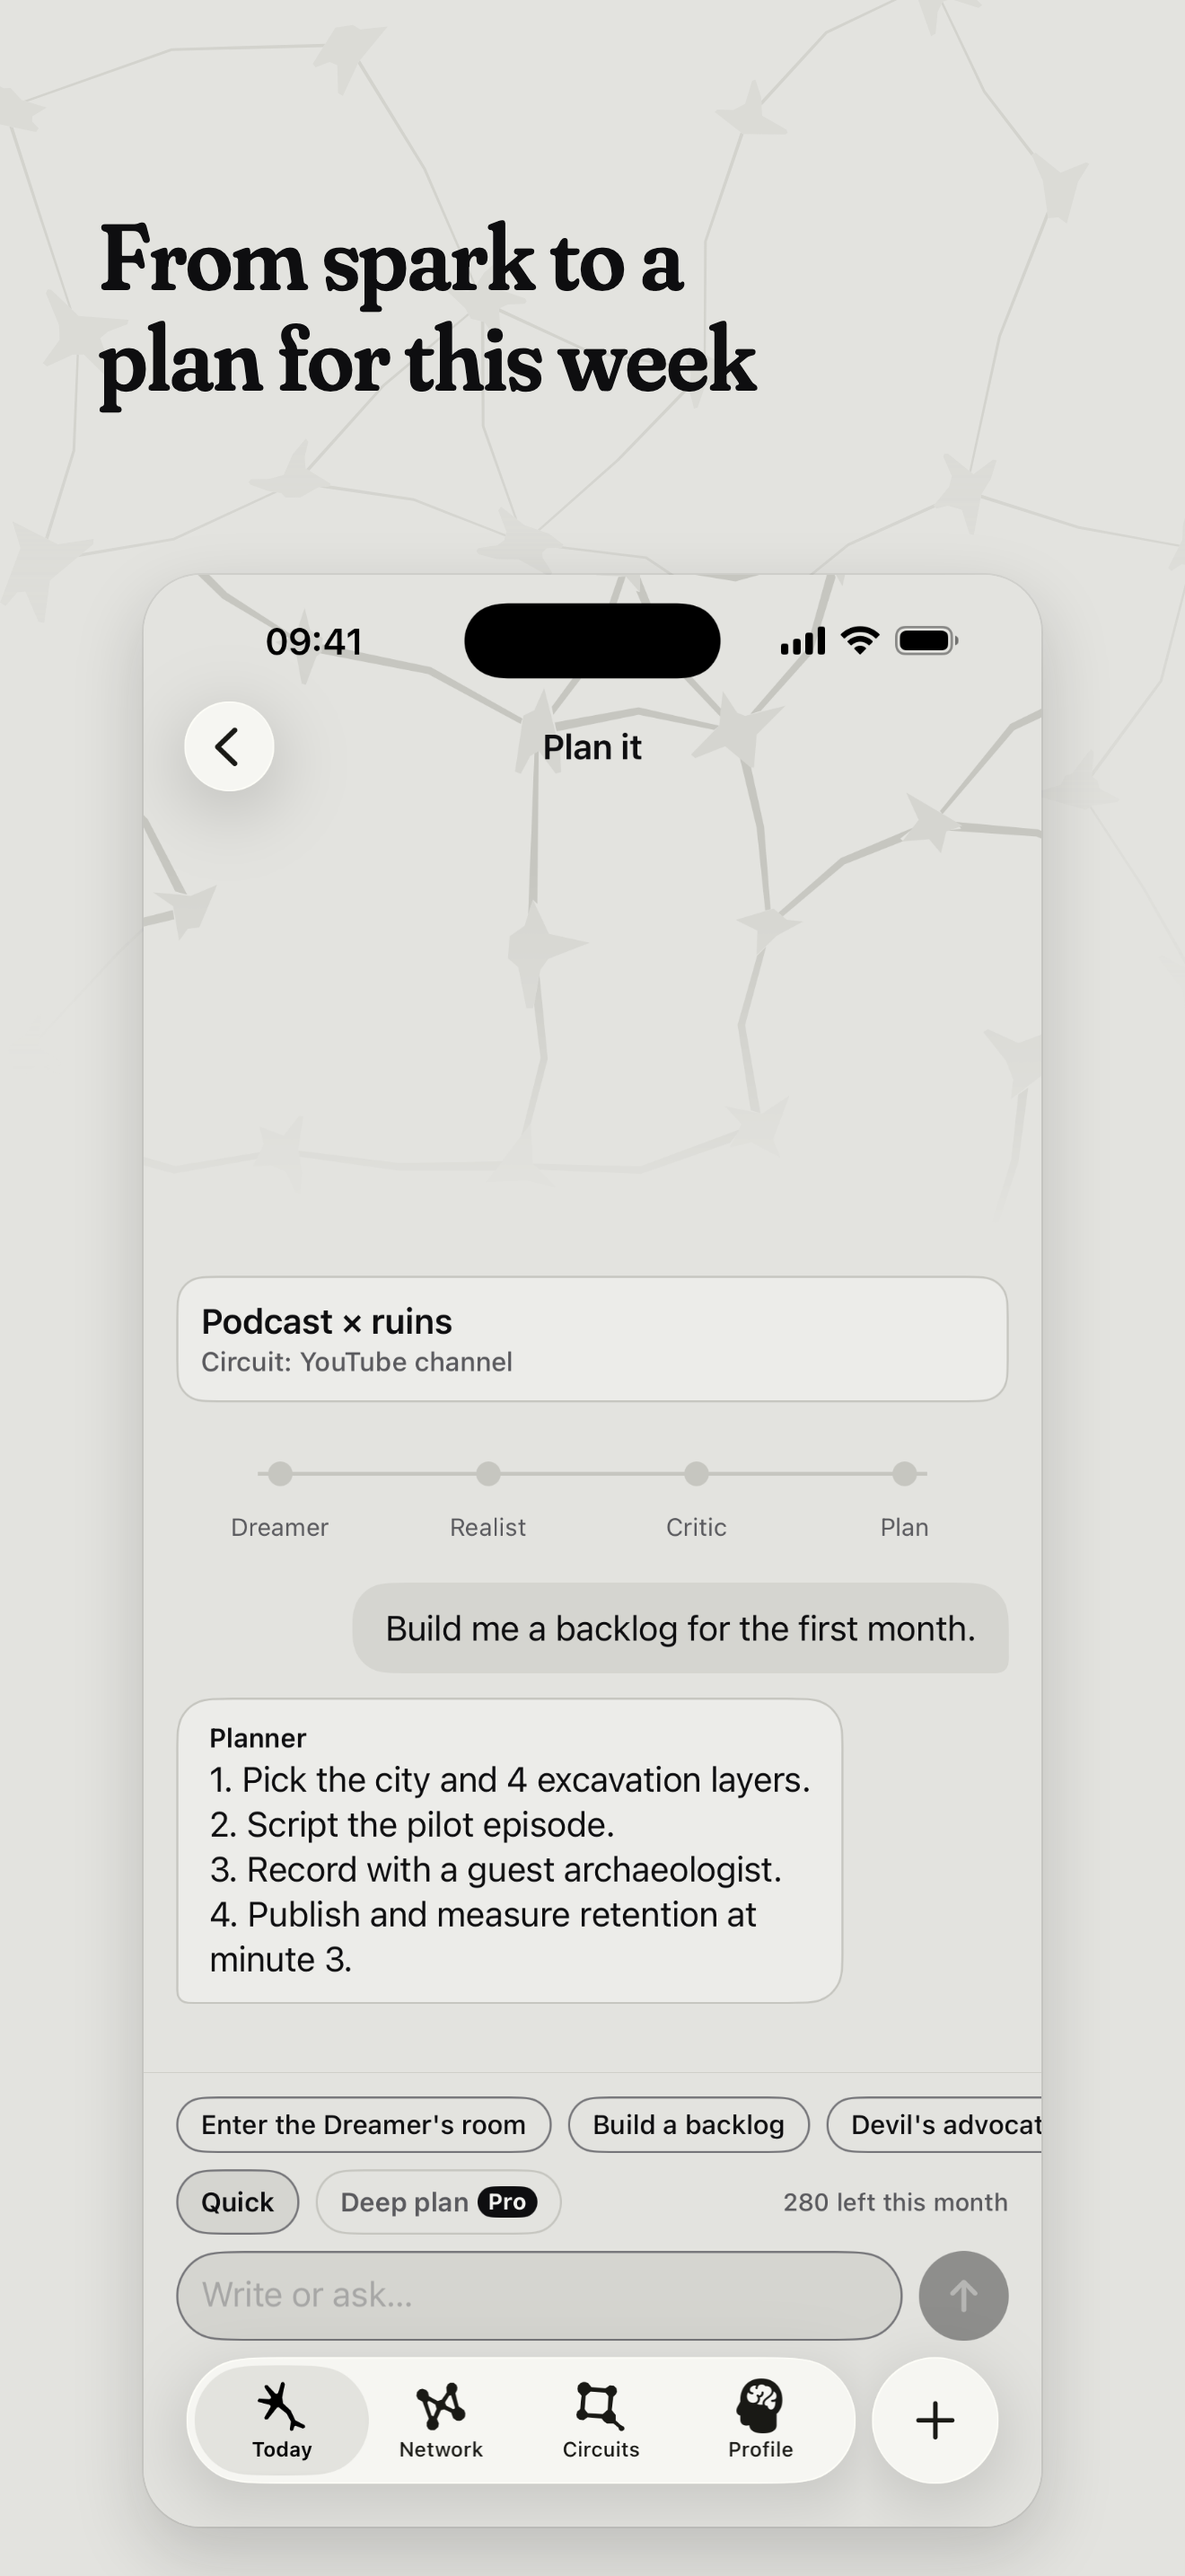
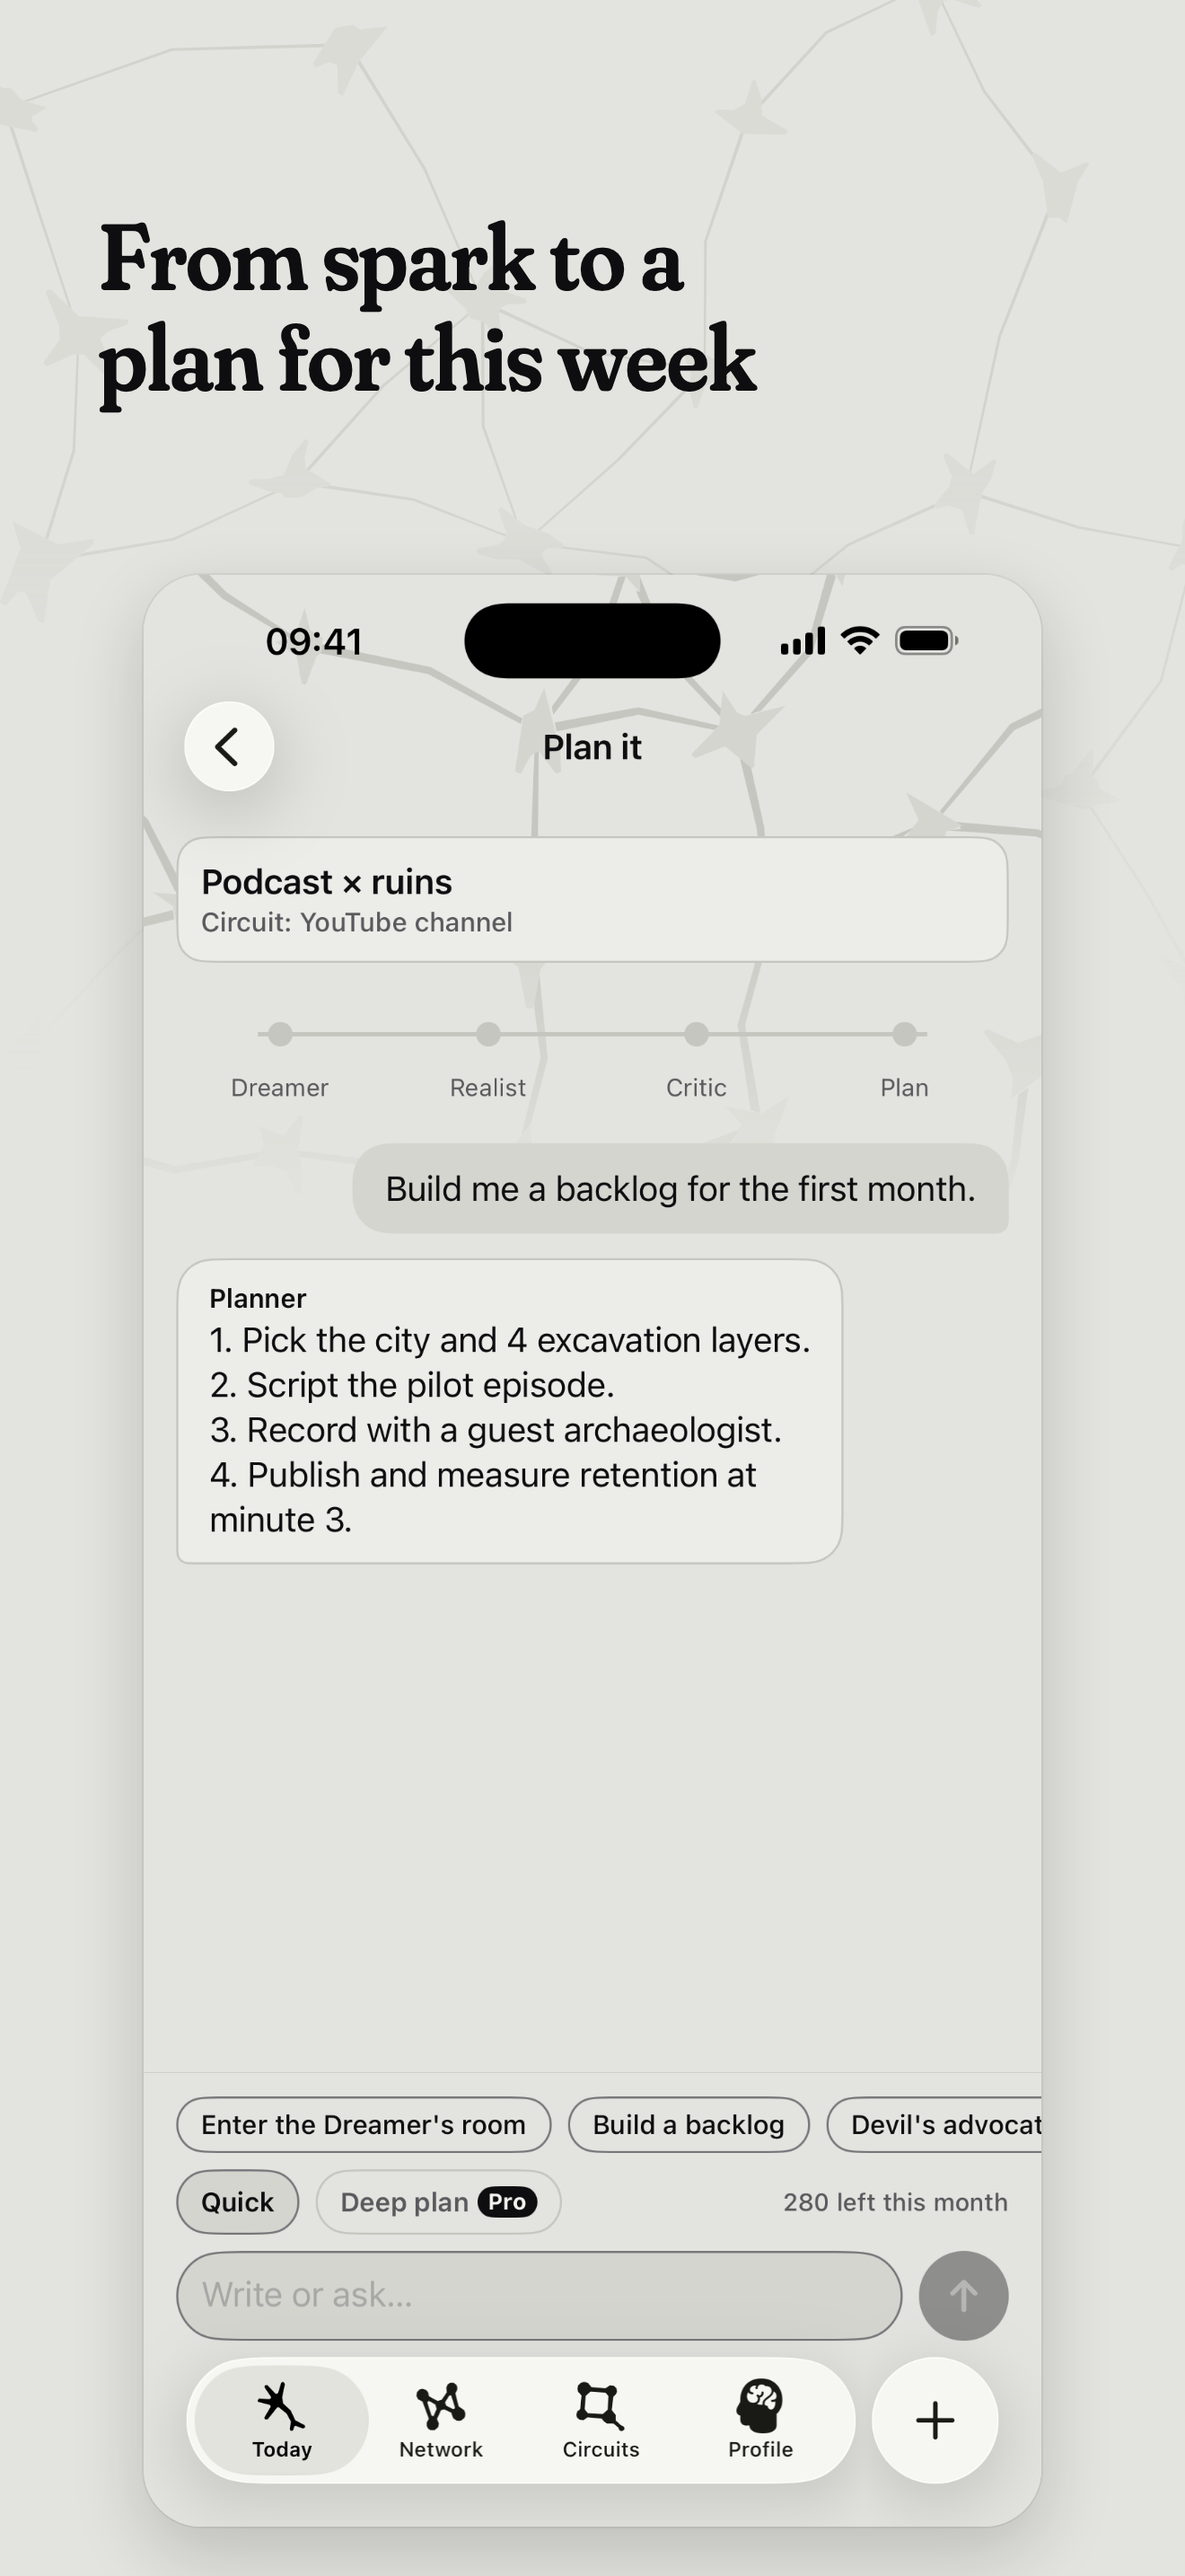
Planificador: el hilo arranca arriba, sin hueco cuando hay pocos mensajes
defaultScrollAnchor(.bottom) pegaba los mensajes abajo y dejaba vacía la parte de arriba. Ahora arranca
arriba y baja al último mensaje solo si el hilo no entra. Revisadas las demás pantallas (Hoy, Red, Circuitos,
Perfil, chispa, neurona, borrador, paywall, tarjeta, consentimiento, importar y onboarding): ninguna tenía
el mismo problema. Captura 6 de tienda rehecha en es y en; -open projects y -open profile para depurar.

diff --git a/ios/Lumbre/Features/Planner/PlannerView.swift b/ios/Lumbre/Features/Planner/PlannerView.swift
@@ -113,7 +113,9 @@ struct PlannerView: View {
                 .padding(.vertical, Space.s3)
             }
             .scrollDismissesKeyboard(.interactively)
-            .defaultScrollAnchor(.bottom)
+            // Sin `defaultScrollAnchor(.bottom)`: con pocos mensajes pegaba el hilo abajo y dejaba un hueco arriba.
+            // Arranca arriba y baja al último mensaje solo si el hilo no entra en la pantalla.
+            .onAppear { scrollToBottom(proxy, animated: false) }
             .onChange(of: messages.count) { scrollToBottom(proxy) }
             .onChange(of: pending?.answer) { scrollToBottom(proxy, animated: false) }
             .safeAreaInset(edge: .bottom) { composer }

diff --git a/ios/Lumbre/App/ExtensionsBridge.swift b/ios/Lumbre/App/ExtensionsBridge.swift
@@ -85,6 +85,8 @@ struct ExtensionsBridge: ViewModifier {
         case "consent": appModel.presentAIConsent()
         case "import": appModel.presentImport()
         case "vault": appModel.selectedTab = .vault
+        case "projects": appModel.selectedTab = .projects
+        case "profile": appModel.selectedTab = .profile
         // Hoy con la chispa del día ya encendida (el aviso de pocos pares y los temas puente van debajo).
         case "revealed":
             Task {
